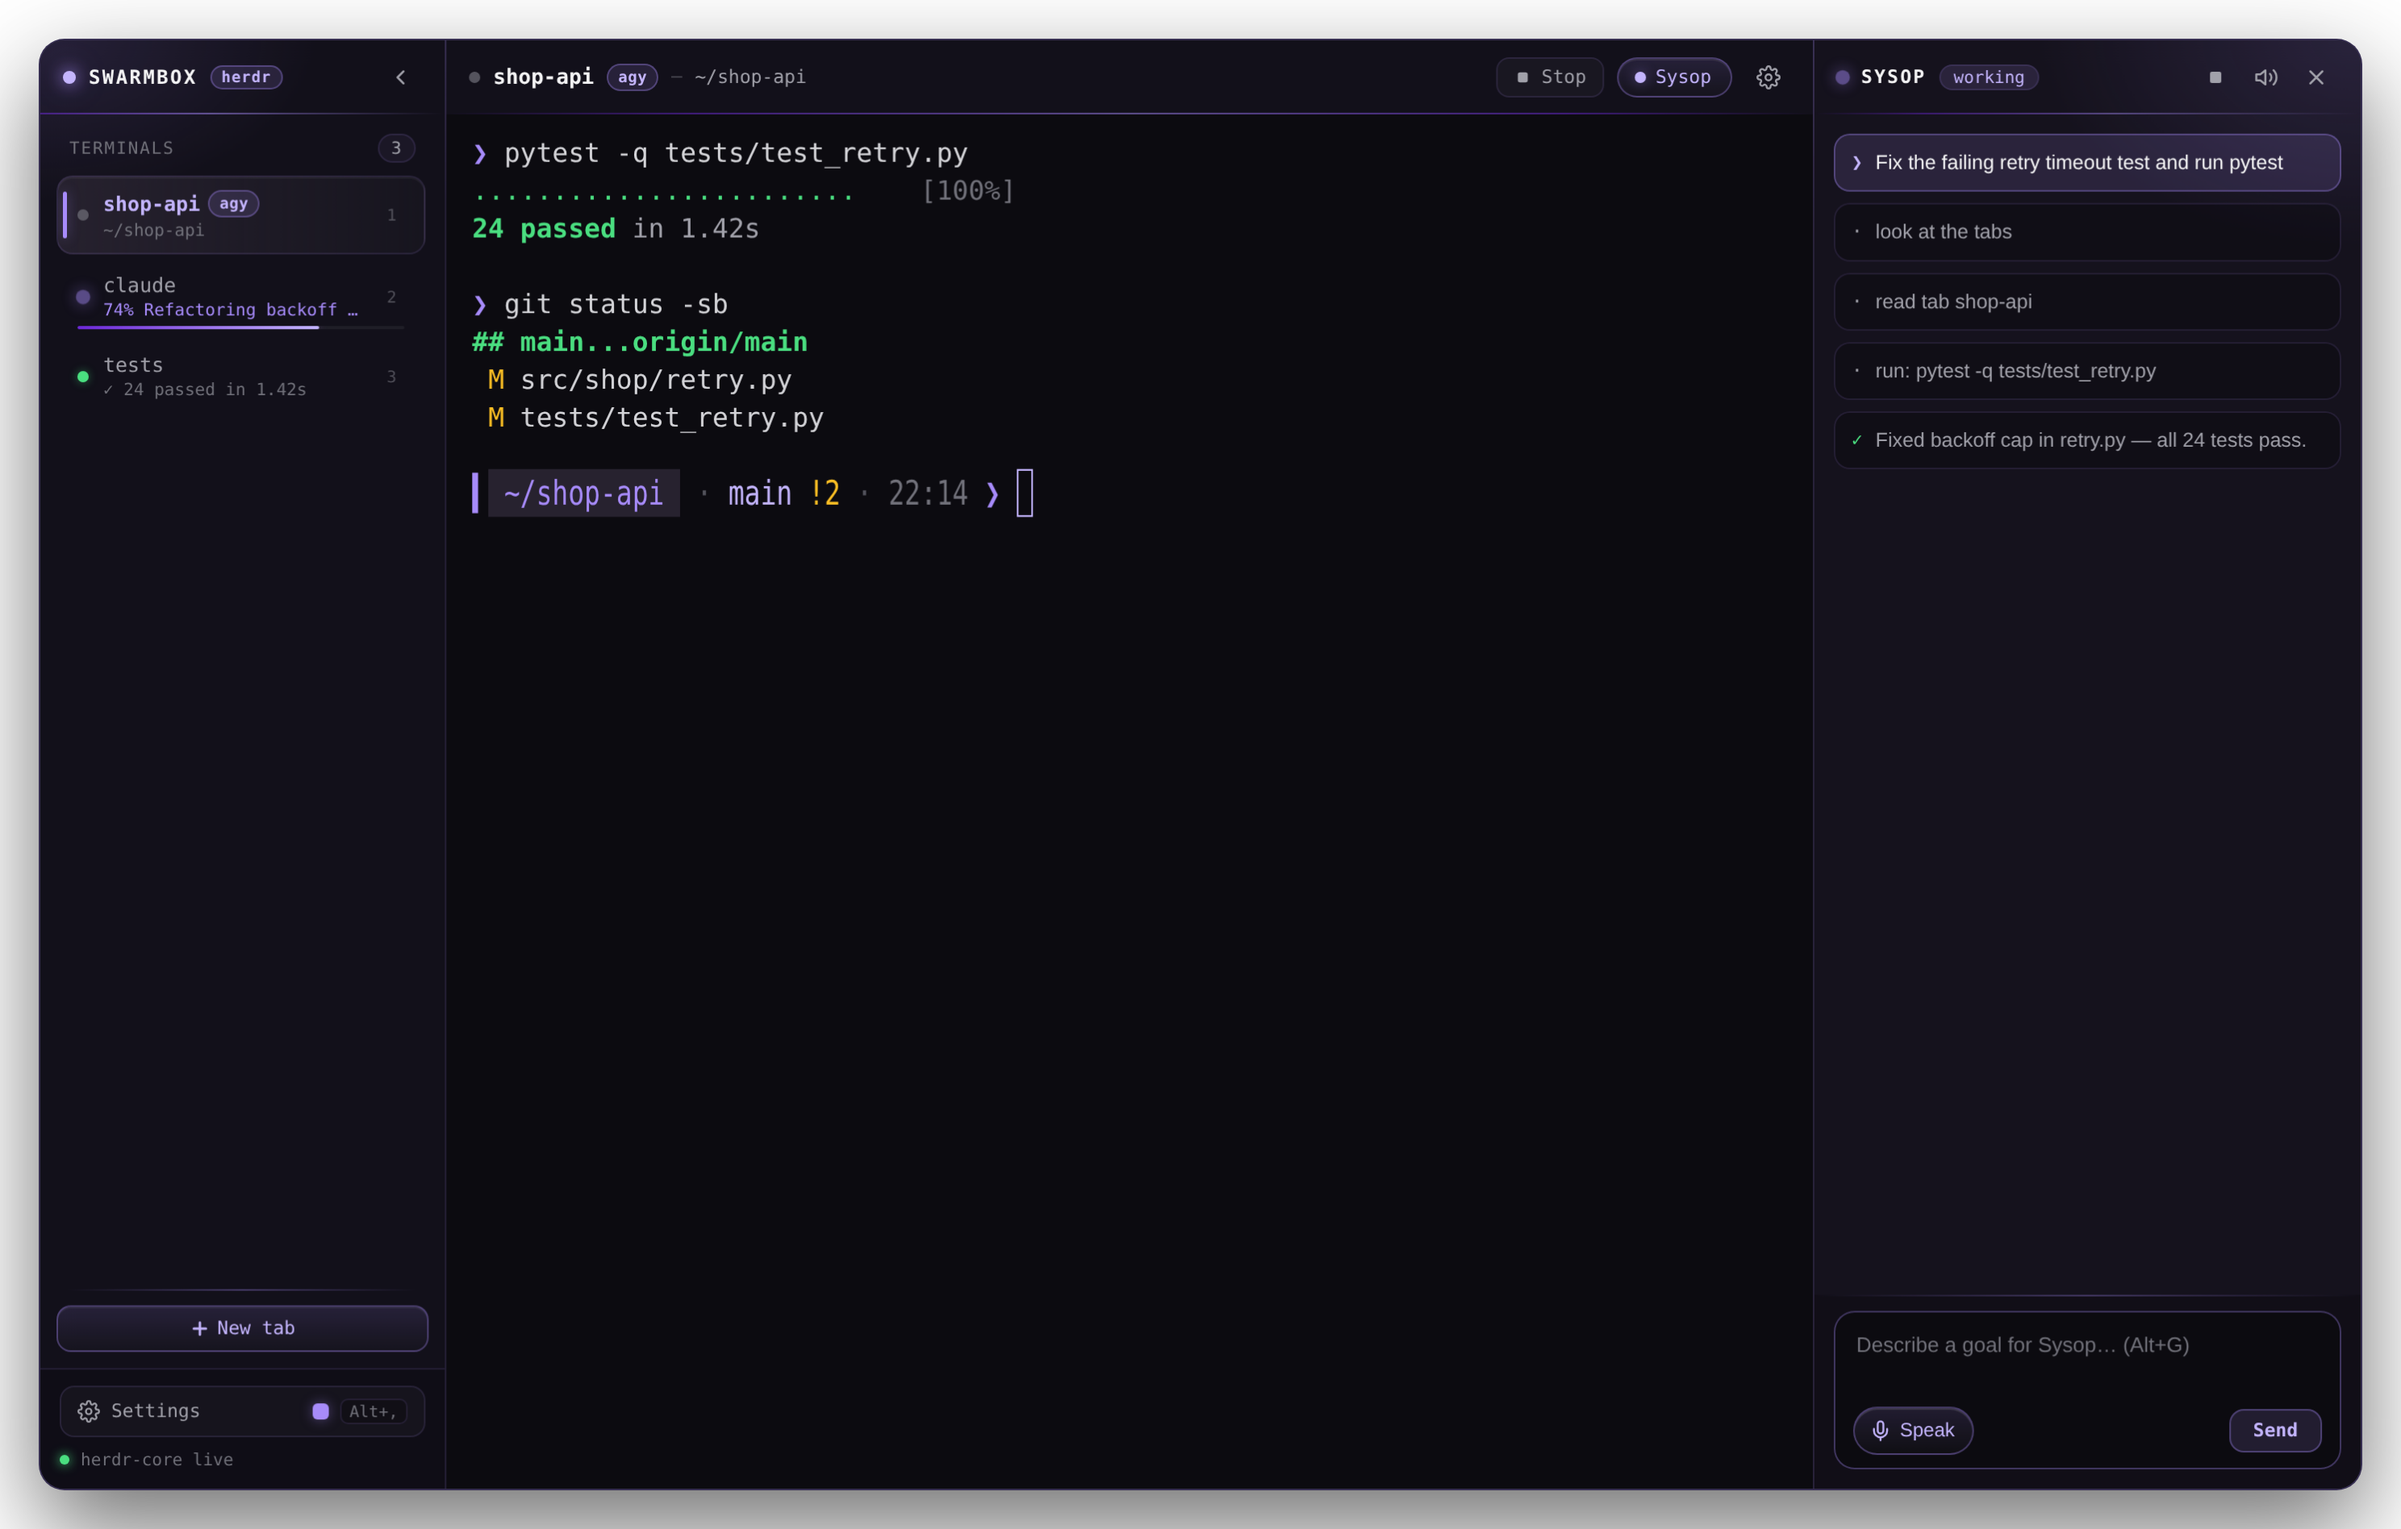
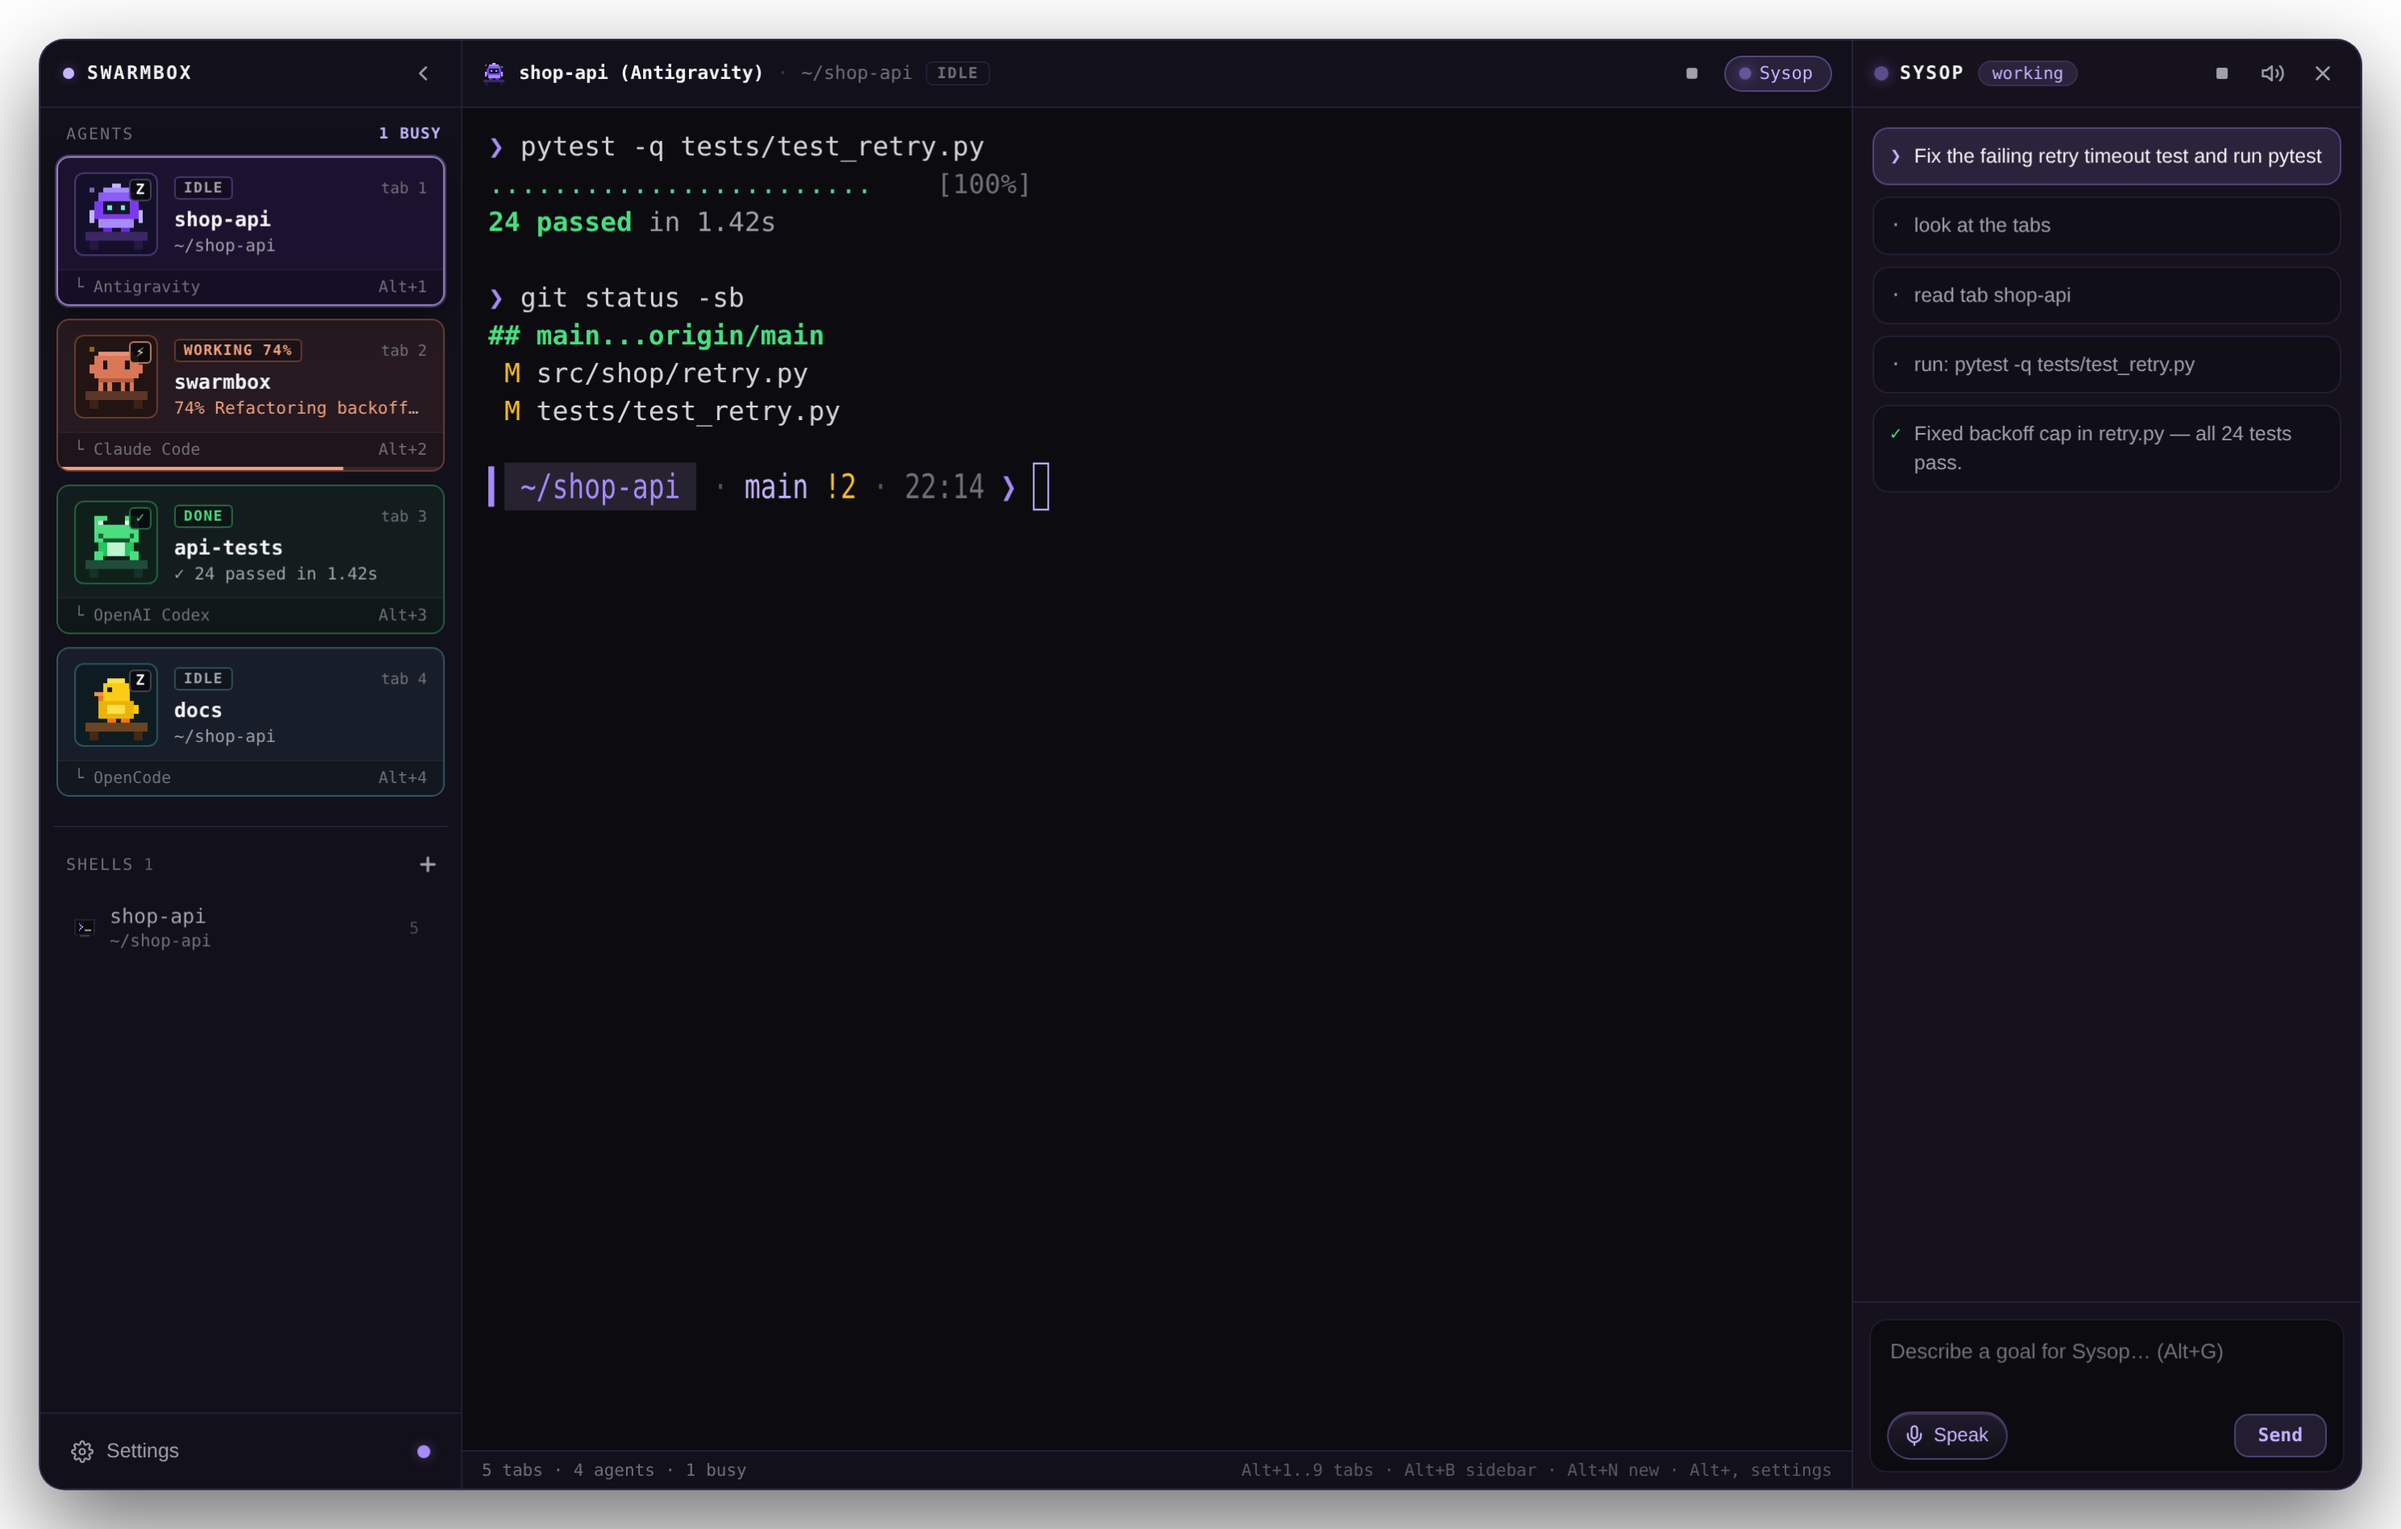
docs: refresh README and 2x HiDPI showcases for v2.2.0 Web Studio

diff --git a/README.md b/README.md
@@ -24,7 +24,7 @@
 
 <br>
 
-<img src="docs/img/swarmbox-herdr-desktop.png" alt="SwarmBox Herdr Web Studio — 3-pane browser workspace with JetBrains Mono + Nerd Font, live OSC 7501 agent status pills, inline progress bar, Purple Glow Starship prompt, Settings launcher, and docked Sysop drawer" width="880">
+<img src="docs/img/swarmbox-herdr-desktop.png" alt="SwarmBox Herdr Web Studio v2.2 — 3-pane browser workspace with pixel-art Agent Mascot Cards (Antigravity, Claude Code 74% working, OpenAI Codex, OpenCode), zero-redundancy adaptive topbar, JetBrains Mono + Nerd Font, Purple Glow Starship prompt, and docked Sysop drawer" width="880">
 
 </div>
 
@@ -32,7 +32,7 @@
 
 | Persistent Sandbox | Native Web Studio &amp; Mobile | Sysop Operator &amp; Local Voice |
 | :--- | :--- | :--- |
-| Run **Claude Code**, **Antigravity (`agy`)**, **OpenCode**, or **Gemini CLI** in auto-approve mode with `sudo`, nested rootless Podman, and headless Chromium — with projects, logins, SSH keys, and addons persisted in one host folder (`~/swarmbox`). | Live per-tab terminals, 5 synced themes, bundled **JetBrains Mono + Nerd Font**, studio **Settings** (`Alt+,`), smart wrapped-line copy, instant bracketed paste, and a 3-pane 24-bit **Terminal Cockpit** over SSH. | Type or speak a goal from desktop or phone. **Sysop** reads your tabs, routes to the active agent, and pauses risky actions behind one-tap **Allow / Cancel** cards — backed by local `whisper.cpp` speech-to-text. |
+| Run **Claude Code**, **Antigravity (`agy`)**, **OpenCode**, or **Gemini CLI** in auto-approve mode with `sudo`, nested rootless Podman, and headless Chromium — with projects, logins, SSH keys, and addons persisted in one host folder (`~/swarmbox`). | Pixel-art **Agent Mascot Cards** with live OSC 7501 status, adaptive Focus Mode (`Alt+B`), 5 synced themes, bundled **JetBrains Mono + Nerd Font**, studio **Settings** (`Alt+,`), smart wrapped-line copy, instant bracketed &amp; **clipboard image paste (`Ctrl+V` / drag-and-drop)**, and a 3-pane 24-bit **Terminal Cockpit** over SSH. | Type or speak a goal from desktop or phone. **Sysop** reads your tabs, routes to the active agent, and pauses risky actions behind one-tap **Allow / Cancel** cards — backed by local `whisper.cpp` speech-to-text. |
 
 ---
 
@@ -62,10 +62,10 @@ Opt into `MUX=herdr` for a cohesive browser studio, responsive phone UI, and mat
 
 | Capability | What you get out of the box |
 | :--- | :--- |
+| **Pixel-Art Agent Cards &amp; Focus Mode** | Active coding agents (`agy`, `claude`, `codex`, `opencode`, `gemini`) get color-coded **Pixel-Art Mascot Cards** in the sidebar with live OSC 7501 badges (`IDLE`, `WORKING 74%`, `BLOCKED`, `DONE`), inline progress bars, and `Alt+1..9` switching — while plain shells stay cleanly grouped under `SHELLS`. Collapse the sidebar (`Alt+B`) and informative horizontal pixel-icon tabs automatically take over the topbar for distraction-free full-width focus; Sysop also opens responsively by viewport width (`>= 1360px`). |
 | **Studio Settings (`Alt+,`)** | Desktop dialog + mobile bottom sheet across 5 live sections — **Appearance**, **SwarmBox**, **Sysop** (3-card autonomy policy + live TTS), **Voice**, and **Addons &amp; System** (one-click live addon install, MCP servers, Git SSH public key copy, shortcuts). Editing host-managed keys stages a sticky **Apply on host** bar (`swarmbox config set ... && swarmbox reset`) with one-click copy. |
 | **5 Synced Themes &amp; Offline Fonts** | **Purple Glow** (default), **Catppuccin Mocha**, **Tokyo Night**, **Nord**, and **Rosé Pine** — synchronized across Web UI, Terminal Cockpit, and `herdr.toml` — paired with self-hosted **JetBrains Mono + Nerd Font** (zero CDN) and a Purple Glow Starship prompt. |
-| **Live OSC 7501 Agent Status** | Real-time working, blocked, and done status pills with inline progress bars in the sidebar, plus native `herdr-app` Agent Inbox integration for Sysop (`swarmbox.role=sysop`, filtered out of your tab list). |
-| **Smart Copy &amp; Instant Paste** | **Copy** (`Ctrl+C` / `Cmd+C` / context menu) inspects the terminal buffer to rejoin soft-wrapped, shaded, or bordered AI commands into one clean line while preserving real multi-line scripts. **Paste** (`Ctrl+V` / `Ctrl+Shift+V`) uses native Bracketed Paste (`\x1b[200~...\x1b[201~`) with zero double-paste or slow character-by-character TUI redraws. |
+| **Smart Copy, Bracketed &amp; Image Paste** | **Copy** (`Ctrl+C` / `Cmd+C` / context menu) inspects the terminal buffer to rejoin soft-wrapped, shaded, or bordered AI commands into one clean line while preserving real multi-line scripts. **Text paste** (`Ctrl+V` / `Ctrl+Shift+V`) uses native Bracketed Paste (`\x1b[200~...\x1b[201~`) with zero double-paste. **Image paste** (`Ctrl+V` / `Cmd+V` or drag-and-drop PNG/JPEG/WebP/GIF/BMP) uploads directly to `/tmp/swarmbox/paste/` (`0600`, rolling prune) and injects the local file path straight into the active agent (`claude`, `agy`, `codex`, `opencode`). |
 | **Zero-Scroll Hydration &amp; Cockpit** | Per-tab live `xterm.js` sessions open already anchored at the bottom, switch in 0 ms preserving scrollback (with a floating **Jump to live** pill), auto-heal WebSockets on wake, and match the 3-pane SSH **Terminal Cockpit** (`Alt+1..9`, `Alt+N`, `Alt+B`, `Alt+S`, `Alt+G`, `Alt+T`, `Alt+,`, `Alt+-/=/0`). |
 
 ---
@@ -75,7 +75,7 @@ Opt into `MUX=herdr` for a cohesive browser studio, responsive phone UI, and mat
 Operate long-running agents comfortably from your phone with iOS-calibrated momentum touch scrolling, a floating glass dock, one-tap approvals, and local offline Whisper dictation.
 
 <p align="center">
-  <img src="docs/img/swarmbox-mobile.png" alt="SwarmBox Herdr Web Studio on mobile — left phone shows live agent tabs, 1-line Starship prompt, floating ALLOW? approval card, and glass dock; right phone shows the Sysop bottom sheet with countdown bar, live steps, and voice composer" width="740">
+  <img src="docs/img/swarmbox-mobile.png" alt="SwarmBox Herdr Web Studio on mobile — left phone shows live agent tabs with pixel-art mascot icons, 1-line Starship prompt, floating ALLOW? approval card, and glass dock; right phone shows the Sysop bottom sheet with countdown bar, live steps, and voice composer" width="740">
 </p>
 
 ```bash
